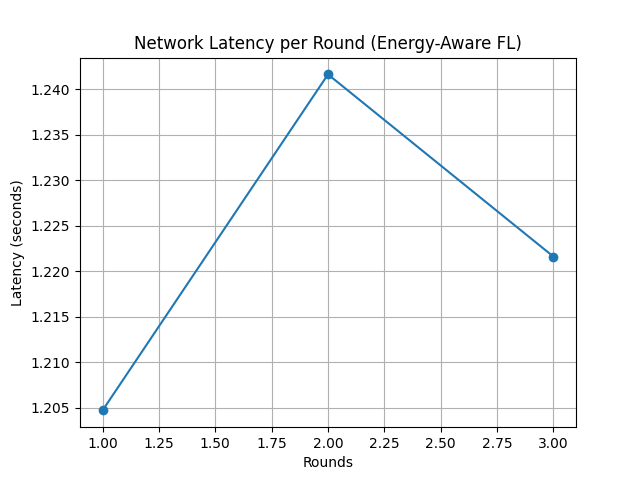
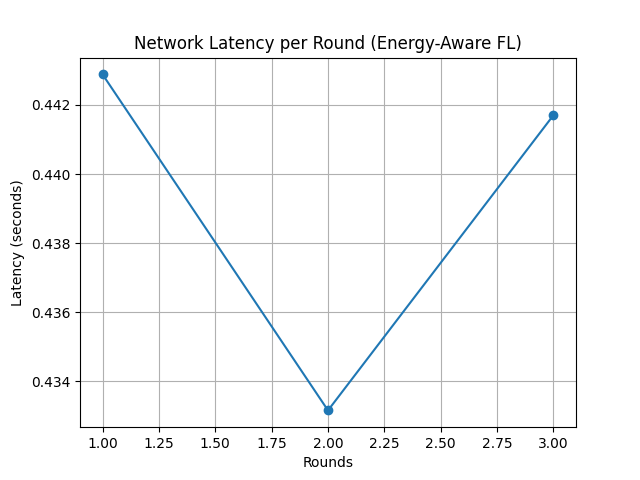
Energy improvement

diff --git a/src/federated.py b/src/federated.py
@@ -1,21 +1,48 @@
 import numpy as np
 import time
+
 from src.client import train_client, get_model_weights
 from src.shap_selection import compute_shap_values, compute_shap_stability
 from src.dp import apply_differential_privacy
 from src.server import hada_aggregation, compute_hada_weights
 
 
+# ==============================
+# CLIENT SELECTION (ENERGY-AWARE)
+# ==============================
+def select_top_clients(clients, fraction=0.7):
+    """
+    Select most energy-efficient clients
+    (lower energy = better)
+    """
+
+    num_selected = max(1, int(len(clients) * fraction))
+
+    sorted_clients = sorted(
+        clients,
+        key=lambda c: c.get("energy", 1.0)
+    )
+
+    return sorted_clients[:num_selected]
+
+
+# ==============================
+# FEDERATED TRAINING (OPTIMIZED)
+# ==============================
 def federated_training(clients, rounds=5, epsilon=1.0, X_test=None, y_test=None):
 
-    print("\n🚀 Starting Federated Learning (FL + SHAP + DP)...")
+    print("\n🚀 Starting Federated Learning (FL + SHAP + DP + ENERGY)...")
 
     convergence_acc = []
     latency_list = []
 
-    for r in range(rounds):
-        print(f"\n🔁 Round {r+1}/{rounds}")
+    # 🔥 convergence tracking
+    prev_acc = 0
+    stagnant_rounds = 0
 
+    for r in range(rounds):
+
+        print(f"\n🔁 Round {r+1}/{rounds}")
         round_start = time.time()
 
         local_models = []
@@ -24,40 +51,69 @@ def federated_training(clients, rounds=5, epsilon=1.0, X_test=None, y_test=None)
         epsilons = []
         energies = []
 
-        for client in clients:
+        # ==============================
+        # 🔥 CLIENT SELECTION (NEW)
+        # ==============================
+        selected_clients = select_top_clients(clients, fraction=0.7)
+
+        print(f"👥 Selected {len(selected_clients)}/{len(clients)} clients")
+
+        for client in selected_clients:
+
             X = client["X"]
             y = client["y"]
 
+            # ==============================
+            # LOCAL TRAINING (with early stopping)
+            # ==============================
             model = train_client(X, y)
             local_models.append(model)
 
-            # 🔥 collect energy
-            energies.append(client.get("energy", 1.0))
+            # energy tracking
+            energy = client.get("energy", 1.0)
+            energies.append(energy)
 
+            # ==============================
+            # MODEL WEIGHTS
+            # ==============================
             weights = get_model_weights(model)
 
-            # SHAP
-            shap_values = compute_shap_values(model, X[:1000])
+            # ==============================
+            # SHAP (OPTIMIZED)
+            # ==============================
+            shap_values = compute_shap_values(
+                model,
+                X,
+                current_round=r
+            )
+
             if isinstance(shap_values, list):
                 shap_values = shap_values[0]
 
             stability = compute_shap_stability(shap_values)
 
-            # DP
+            # ==============================
+            # DIFFERENTIAL PRIVACY
+            # ==============================
             weights = apply_differential_privacy([weights], epsilon)[0]
 
+            # collect
             local_weights.append(weights)
             shap_scores.append(stability)
             epsilons.append(epsilon)
 
-        # simulate latency
-        time.sleep(0.05 * len(clients))
+        # ==============================
+        # SIMULATED LATENCY
+        # ==============================
+        time.sleep(0.05 * len(selected_clients))
 
         if len(local_models) == 0:
-            print("⚠ All clients skipped (low energy)")
+            print("⚠ No clients available")
             continue
 
-        # 🔥 aggregation with energy
+        # ==============================
+        # 🔥 HADA AGGREGATION (ENERGY-AWARE)
+        # ==============================
         global_weights = hada_aggregation(
             local_weights,
             shap_scores,
@@ -69,12 +125,13 @@ def federated_training(clients, rounds=5, epsilon=1.0, X_test=None, y_test=None)
         latency_list.append(round_time)
 
         print(f"⏱ Round Latency: {round_time:.3f} sec")
-        print("✅ HADA aggregation complete")
+        print("✅ Aggregation complete")
 
         # ==============================
         # CONVERGENCE TRACKING
         # ==============================
         if X_test is not None and y_test is not None:
+
             from sklearn.metrics import accuracy_score
 
             preds = federated_predict(
@@ -82,13 +139,25 @@ def federated_training(clients, rounds=5, epsilon=1.0, X_test=None, y_test=None)
                 X_test,
                 shap_scores,
                 epsilons,
-                energies   # 🔥 FIXED (always passed)
+                energies
             )
 
             acc = accuracy_score(y_test, preds)
             convergence_acc.append(acc)
 
             print(f"📈 Round {r+1} Accuracy: {acc*100:.2f}%")
+
+            # 🔥 EARLY STOPPING (NEW)
+            if abs(acc - prev_acc) < 0.001:
+                stagnant_rounds += 1
+            else:
+                stagnant_rounds = 0
+
+            if stagnant_rounds >= 3:
+                print("🛑 Early convergence reached. Stopping training.")
+                break
+
+            prev_acc = acc
 
     print("\n🎉 Federated Learning Completed")
 
@@ -103,9 +172,10 @@ def federated_predict(models, X, shap_scores=None, epsilons=None, energies=None)
     probs = []
 
     # ==============================
-    # NORMAL FL (no weighting)
+    # NORMAL FL
     # ==============================
     if shap_scores is None or epsilons is None:
+
         for model in models:
             p = model.predict_proba(X)
 
@@ -118,19 +188,20 @@ def federated_predict(models, X, shap_scores=None, epsilons=None, energies=None)
         return (avg_prob > 0.5).astype(int)
 
     # ==============================
-    # 🔥 SAFETY FIX (prevents crash)
+    # SAFETY FIX
     # ==============================
     if energies is None:
         energies = np.ones(len(shap_scores))
 
     # ==============================
-    # HADA + ENERGY WEIGHTED
+    # 🔥 ENERGY-AWARE WEIGHTING
     # ==============================
     weights = compute_hada_weights(shap_scores, epsilons, energies)
 
     weighted_probs = np.zeros(len(X))
 
     for w, model in zip(weights, models):
+
         p = model.predict_proba(X)
 
         if p.shape[1] == 2:

diff --git a/src/shap_selection.py b/src/shap_selection.py
@@ -1,65 +1,118 @@
 import shap
 import numpy as np
 import warnings
+
 warnings.filterwarnings("ignore")
 
 # ==============================
-# SHAP FEATURE IMPORTANCE (PAPER)
+# GLOBAL CACHE (NEW)
 # ==============================
-def compute_shap_values(model, X):
+LAST_SHAP_VALUES = None
+LAST_ROUND = -1
+
+
+# ==============================
+# SHAP FEATURE IMPORTANCE (OPTIMIZED)
+# ==============================
+def compute_shap_values(model, X, current_round=0, interval=5, sample_frac=0.3):
     """
-    Compute SHAP values for a trained model
+    Optimized SHAP computation
+
+    Improvements:
+    ✔ Compute only every 'interval' rounds
+    ✔ Use sampling to reduce cost
+    ✔ Cache results
 
     Parameters:
     - model: trained LightGBM model
-    - X: input data
+    - X: input data (pandas DataFrame)
+    - current_round: FL round number
+    - interval: SHAP recompute frequency
+    - sample_frac: fraction of data for SHAP
 
     Returns:
     - shap_values
     """
 
+    global LAST_SHAP_VALUES, LAST_ROUND
+
+    # ------------------------------
+    # SKIP COMPUTATION (CACHE HIT)
+    # ------------------------------
+    if LAST_SHAP_VALUES is not None and (current_round - LAST_ROUND) < interval:
+        return LAST_SHAP_VALUES
+
+    # ------------------------------
+    # SAMPLE DATA (MAJOR SPEED BOOST)
+    # ------------------------------
+    if hasattr(X, "sample"):
+        X_sample = X.sample(frac=sample_frac, random_state=42)
+    else:
+        # fallback if numpy array
+        n = int(len(X) * sample_frac)
+        idx = np.random.choice(len(X), n, replace=False)
+        X_sample = X[idx]
+
+    # ------------------------------
+    # SHAP COMPUTATION
+    # ------------------------------
     explainer = shap.TreeExplainer(model)
-    shap_values = explainer.shap_values(X)
+    shap_values = explainer.shap_values(X_sample)
+
+    # ------------------------------
+    # CACHE UPDATE
+    # ------------------------------
+    LAST_SHAP_VALUES = shap_values
+    LAST_ROUND = current_round
 
     return shap_values
 
 
 # ==============================
-# SHAP STABILITY SCORE (PAPER IDEA)
+# SHAP STABILITY SCORE (UNCHANGED + SAFE)
 # ==============================
 def compute_shap_stability(shap_values):
     """
-    Compute stability score of SHAP values
-
-    Paper concept:
-    → stable features = reliable clients
+    Stability score of SHAP values
 
     Returns:
     - stability_score (scalar)
     """
 
-    # absolute importance
     shap_abs = np.abs(shap_values)
 
-    # mean importance
+    # handle multi-class case safely
+    if isinstance(shap_values, list):
+        shap_abs = np.mean([np.abs(sv) for sv in shap_values], axis=0)
+
     mean_importance = np.mean(shap_abs)
 
     return mean_importance
 
 
 # ==============================
-# FEATURE SELECTION (TOP-K)
+# FEATURE SELECTION (OPTIMIZED)
 # ==============================
 def select_top_features(shap_values, k=30):
     """
-    Select top-k important features based on SHAP
+    Select top-k important features
+
+    Improvements:
+    ✔ Handles multi-class SHAP
+    ✔ More stable ranking
 
     Returns:
     - indices of selected features
     """
 
-    shap_abs = np.abs(shap_values).mean(axis=0)
+    # handle multi-class SHAP output
+    if isinstance(shap_values, list):
+        shap_values = np.mean([np.abs(sv) for sv in shap_values], axis=0)
+    else:
+        shap_values = np.abs(shap_values)
 
-    indices = np.argsort(shap_abs)[-k:]
+    shap_mean = shap_values.mean(axis=0)
+
+    indices = np.argsort(shap_mean)[-k:]
 
     return indices

diff --git a/src/client.py b/src/client.py
@@ -1,6 +1,7 @@
 import numpy as np
 from lightgbm import LGBMClassifier
-
+from lightgbm import LGBMClassifier
+import lightgbm as lgb
 # ==============================
 # CREATE CLIENTS (NON-IID FIXED)
 # ==============================
@@ -116,14 +117,22 @@ def create_clients_dirichlet(X, y, num_clients=5, alpha=0.3):
 def train_client(X, y):
 
     model = LGBMClassifier(
-        n_estimators=60,    #40
-        max_depth=6,        #5
+        n_estimators=100,
+        max_depth=6,
         learning_rate=0.1,
         class_weight="balanced",
         verbosity=-1
     )
 
-    model.fit(X, y)
+    model.fit(
+        X, y,
+        eval_set=[(X, y)],
+        eval_metric="logloss",
+        callbacks=[
+            lgb.early_stopping(stopping_rounds=10),
+            lgb.log_evaluation(0)  # suppress logs
+        ]
+    )
 
     return model
 
